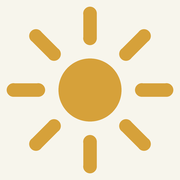
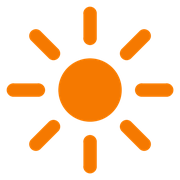
Herstel het oranje zonnetje voor browser- en app-iconen

diff --git a/index.html b/index.html
@@ -22,7 +22,7 @@
       "url": "https://positief-nieuws.nl/",
       "logo": {
         "@type": "ImageObject",
-        "url": "https://positief-nieuws.nl/sun-orange.svg",
+        "url": "https://positief-nieuws.nl/sun-orange.svg?v=6",
         "width": 512,
         "height": 512
       }
@@ -1837,7 +1837,7 @@ body.pn-home .site-footer .simple-analytics-badge{margin-top:8px!important}.site
     flex: none;
   }
 }
-</style><link href="/favicon.ico" rel="icon" sizes="16x16 32x32 48x48 64x64"/><link href="/favicon.png" rel="icon" sizes="96x96" type="image/png"/><link href="/sun-orange.svg" rel="icon" sizes="any" type="image/svg+xml"/><link href="/sun-apple-touch-icon.png" rel="apple-touch-icon" sizes="180x180"/><link href="/manifest.json?v=5" rel="manifest"/><meta content="Positief nieuws" name="application-name"/><!-- edition-analytics:start --><script data-edition="2026-11-19" data-page-type="homepage" src="/edition-analytics.js?v=2"></script><!-- edition-analytics:end --><link href="/site-theme.css?v=20261114-footer-compact" rel="stylesheet"/><link href="/newsletter-conversion.css?v=2" rel="stylesheet"/><!-- social-meta:start --><meta content="Positief nieuws en goed nieuws uit Nederland en de wereld" property="og:title"/><meta content="Op zoek naar goed nieuws? Ontdek twee keer per week positieve verhalen uit Nederland en de wereld over oplossingen, vooruitgang en wat wél goed gaat." property="og:description"/><meta content="https://positief-nieuws.nl/" property="og:url"/><meta content="website" property="og:type"/><meta content="Positief nieuws" property="og:site_name"/><meta content="nl_NL" property="og:locale"/><meta content="https://positief-nieuws.nl/images/social/positief-nieuws-v1.png" property="og:image"/><meta content="https://positief-nieuws.nl/images/social/positief-nieuws-v1.png" property="og:image:secure_url"/><meta content="Positief nieuws. Dit gebeurt ook. Nieuws uit Nederland en de wereld." property="og:image:alt"/><meta content="1200" property="og:image:width"/><meta content="630" property="og:image:height"/><meta content="summary_large_image" name="twitter:card"/><meta content="Positief nieuws en goed nieuws uit Nederland en de wereld" name="twitter:title"/><meta content="Op zoek naar goed nieuws? Ontdek twee keer per week positieve verhalen uit Nederland en de wereld over oplossingen, vooruitgang en wat wél goed gaat." name="twitter:description"/><meta content="https://positief-nieuws.nl/images/social/positief-nieuws-v1.png" name="twitter:image"/><meta content="Positief nieuws. Dit gebeurt ook. Nieuws uit Nederland en de wereld." name="twitter:image:alt"/><!-- social-meta:end --><!-- social-assets:start --><link href="/social-sharing.css?v=1" rel="stylesheet"/><script defer="" src="/social-sharing.js?v=1"></script><!-- social-assets:end --><style id="homepage-brand-heading">
+</style><link href="/favicon.ico?v=6" rel="icon" sizes="16x16 32x32 48x48 64x64"/><link href="/favicon.png?v=6" rel="icon" sizes="96x96" type="image/png"/><link href="/sun-orange.svg?v=6" rel="icon" sizes="any" type="image/svg+xml"/><link href="/sun-apple-touch-icon.png?v=6" rel="apple-touch-icon" sizes="180x180"/><link href="/manifest.json?v=6" rel="manifest"/><meta content="Positief nieuws" name="application-name"/><!-- edition-analytics:start --><script data-edition="2026-11-19" data-page-type="homepage" src="/edition-analytics.js?v=2"></script><!-- edition-analytics:end --><link href="/site-theme.css?v=20261114-footer-compact" rel="stylesheet"/><link href="/newsletter-conversion.css?v=2" rel="stylesheet"/><!-- social-meta:start --><meta content="Positief nieuws en goed nieuws uit Nederland en de wereld" property="og:title"/><meta content="Op zoek naar goed nieuws? Ontdek twee keer per week positieve verhalen uit Nederland en de wereld over oplossingen, vooruitgang en wat wél goed gaat." property="og:description"/><meta content="https://positief-nieuws.nl/" property="og:url"/><meta content="website" property="og:type"/><meta content="Positief nieuws" property="og:site_name"/><meta content="nl_NL" property="og:locale"/><meta content="https://positief-nieuws.nl/images/social/positief-nieuws-v1.png" property="og:image"/><meta content="https://positief-nieuws.nl/images/social/positief-nieuws-v1.png" property="og:image:secure_url"/><meta content="Positief nieuws. Dit gebeurt ook. Nieuws uit Nederland en de wereld." property="og:image:alt"/><meta content="1200" property="og:image:width"/><meta content="630" property="og:image:height"/><meta content="summary_large_image" name="twitter:card"/><meta content="Positief nieuws en goed nieuws uit Nederland en de wereld" name="twitter:title"/><meta content="Op zoek naar goed nieuws? Ontdek twee keer per week positieve verhalen uit Nederland en de wereld over oplossingen, vooruitgang en wat wél goed gaat." name="twitter:description"/><meta content="https://positief-nieuws.nl/images/social/positief-nieuws-v1.png" name="twitter:image"/><meta content="Positief nieuws. Dit gebeurt ook. Nieuws uit Nederland en de wereld." name="twitter:image:alt"/><!-- social-meta:end --><!-- social-assets:start --><link href="/social-sharing.css?v=1" rel="stylesheet"/><script defer="" src="/social-sharing.js?v=1"></script><!-- social-assets:end --><style id="homepage-brand-heading">
 body.pn-home .site-header,
 body.pn-home .topicstrip{border-bottom:0}
 /* Homepage: the existing wordmark is the primary heading. */
@@ -1863,7 +1863,7 @@ body.pn-home .topicstrip{border-bottom:0}
 <header class="site-header">
 <div class="header-shell header-row">
 <h1 class="brand-heading"><a aria-label="Positief nieuws homepage" class="brand" href="./">
-<img alt="" aria-hidden="true" class="brand-sun" height="32" src="/sun-orange.svg" width="32"/>
+<img alt="" aria-hidden="true" class="brand-sun" height="32" src="/sun-orange.svg?v=6" width="32"/>
 <span>Positief nieuws</span>
 </a></h1>
 <button aria-controls="mobile-navigation" aria-expanded="false" aria-label="Menu openen" class="mobile-menu-toggle" type="button">

diff --git a/nieuwsbrief/index.html b/nieuwsbrief/index.html
@@ -1,4 +1,4 @@
-<!DOCTYPE html><html lang="nl"><head><script src="/analytics-loader.js?v=1"></script><meta charset="UTF-8"><meta name="viewport" content="width=device-width,initial-scale=1"><title>Gratis nieuwsbrief | Positief nieuws in je inbox</title><meta name="description" content="Elke maandag en donderdag 12 positieve verhalen en 3 ontwikkelingen om bij te blijven. Gratis, overzichtelijk en in een paar minuten gelezen."><link rel="canonical" href="https://positief-nieuws.nl/nieuwsbrief/"><link rel="icon" href="/favicon.ico"><link rel="stylesheet" href="/site-theme.css?v=20261114-footer-compact"><link rel="stylesheet" href="/newsletter-conversion.css?v=2"><style>
+<!DOCTYPE html><html lang="nl"><head><script src="/analytics-loader.js?v=1"></script><meta charset="UTF-8"><meta name="viewport" content="width=device-width,initial-scale=1"><title>Gratis nieuwsbrief | Positief nieuws in je inbox</title><meta name="description" content="Elke maandag en donderdag 12 positieve verhalen en 3 ontwikkelingen om bij te blijven. Gratis, overzichtelijk en in een paar minuten gelezen."><link rel="canonical" href="https://positief-nieuws.nl/nieuwsbrief/"><link rel="icon" href="/favicon.ico?v=6"><link rel="stylesheet" href="/site-theme.css?v=20261114-footer-compact"><link rel="stylesheet" href="/newsletter-conversion.css?v=2"><style>
 :root{--paper:#f7f5ec;--ink:#151a17;--green:#1f5b45;--green-dark:#173f31;--accent:#d6a13a;--muted:#68716b;--line:rgba(23,63,49,.22);--line2:rgba(23,63,49,.12);--content:748px;--header:1080px}
 *{box-sizing:border-box}html{font-size:17px}body{margin:0;background:var(--paper);color:var(--ink);font-family:Arial,Helvetica,sans-serif;line-height:1.52;-webkit-font-smoothing:antialiased}a{color:inherit}
 .site-header{padding:26px 0 18px}.header-shell{width:min(calc(100% - 48px),var(--header));margin:0 auto}.header-row{display:flex;align-items:center;justify-content:space-between;gap:24px}
@@ -13,7 +13,7 @@
 </style><script src="/edition-analytics.js?v=2" data-page-type="newsletter" defer></script><!-- social-meta:start --><meta property="og:title" content="Gratis nieuwsbrief | Positief nieuws in je inbox"><meta property="og:description" content="Elke maandag en donderdag 12 positieve verhalen en 3 ontwikkelingen om bij te blijven. Gratis, overzichtelijk en in een paar minuten gelezen."><meta property="og:url" content="https://positief-nieuws.nl/nieuwsbrief/"><meta property="og:type" content="website"><meta property="og:site_name" content="Positief nieuws"><meta property="og:locale" content="nl_NL"><meta property="og:image" content="https://positief-nieuws.nl/images/social/positief-nieuws-v1.png"><meta property="og:image:secure_url" content="https://positief-nieuws.nl/images/social/positief-nieuws-v1.png"><meta property="og:image:alt" content="Positief nieuws. Dit gebeurt ook. Nieuws uit Nederland en de wereld."><meta property="og:image:width" content="1200"><meta property="og:image:height" content="630"><meta name="twitter:card" content="summary_large_image"><meta name="twitter:title" content="Gratis nieuwsbrief | Positief nieuws in je inbox"><meta name="twitter:description" content="Elke maandag en donderdag 12 positieve verhalen en 3 ontwikkelingen om bij te blijven. Gratis, overzichtelijk en in een paar minuten gelezen."><meta name="twitter:image" content="https://positief-nieuws.nl/images/social/positief-nieuws-v1.png"><meta name="twitter:image:alt" content="Positief nieuws. Dit gebeurt ook. Nieuws uit Nederland en de wereld."><!-- social-meta:end --><!-- social-assets:start --><link rel="stylesheet" href="/social-sharing.css?v=1"><script src="/social-sharing.js?v=1" defer></script><!-- social-assets:end --></head><body><a class="skip" href="#main">Ga naar inhoud</a><header class="site-header">
   <div class="header-shell header-row">
     <a class="brand" href="/" aria-label="Positief nieuws homepage">
-      <img class="brand-sun" src="/sun-orange.svg" width="32" height="32" alt="" aria-hidden="true">
+      <img class="brand-sun" src="/sun-orange.svg?v=6" width="32" height="32" alt="" aria-hidden="true">
       <span>Positief nieuws</span>
     </a>
 

diff --git a/edities/2026-11-19/index.html b/edities/2026-11-19/index.html
@@ -1,7 +1,7 @@
 <!DOCTYPE html><html lang="nl"><head>
 <meta charset="UTF-8"><meta name="viewport" content="width=device-width, initial-scale=1.0">
 <title>Positief nieuws · donderdag 19 november 2026</title><meta name="description" content="Positief nieuws van donderdag 19 november 2026: Jorn (18) en een omstander redden stel uit zinkende auto en Lily Yohannes leerde Nederlands op het voetbalple…"><link rel="canonical" href="https://positief-nieuws.nl/edities/2026-11-19/">
-<meta property="og:title" content="Positief nieuws · donderdag 19 november 2026"><meta property="og:description" content="Positief nieuws van donderdag 19 november 2026: Jorn (18) en een omstander redden stel uit zinkende auto en Lily Yohannes leerde Nederlands op het voetbalple…"><meta property="og:type" content="article"><meta property="og:url" content="https://positief-nieuws.nl/edities/2026-11-19/"><meta name="twitter:card" content="summary"><meta name="theme-color" content="#17382b"><link rel="manifest" href="/manifest.json?v=5"><link rel="apple-touch-icon" href="/sun-apple-touch-icon.png"><script type="application/ld+json">{"@context": "https://schema.org", "@type": "CollectionPage", "name": "Positief nieuws · donderdag 19 november 2026", "description": "Positief nieuws van donderdag 19 november 2026: Jorn (18) en een omstander redden stel uit zinkende auto en Lily Yohannes leerde Nederlands op het voetbalple…", "url": "https://positief-nieuws.nl/edities/2026-11-19/", "datePublished": "2026-11-19", "dateModified": "2026-11-19", "isPartOf": {"@type": "WebSite", "name": "Positief nieuws", "url": "https://positief-nieuws.nl/"}}</script><style>
+<meta property="og:title" content="Positief nieuws · donderdag 19 november 2026"><meta property="og:description" content="Positief nieuws van donderdag 19 november 2026: Jorn (18) en een omstander redden stel uit zinkende auto en Lily Yohannes leerde Nederlands op het voetbalple…"><meta property="og:type" content="article"><meta property="og:url" content="https://positief-nieuws.nl/edities/2026-11-19/"><meta name="twitter:card" content="summary"><meta name="theme-color" content="#17382b"><link rel="manifest" href="/manifest.json?v=6"><link rel="apple-touch-icon" href="/sun-apple-touch-icon.png?v=6"><script type="application/ld+json">{"@context": "https://schema.org", "@type": "CollectionPage", "name": "Positief nieuws · donderdag 19 november 2026", "description": "Positief nieuws van donderdag 19 november 2026: Jorn (18) en een omstander redden stel uit zinkende auto en Lily Yohannes leerde Nederlands op het voetbalple…", "url": "https://positief-nieuws.nl/edities/2026-11-19/", "datePublished": "2026-11-19", "dateModified": "2026-11-19", "isPartOf": {"@type": "WebSite", "name": "Positief nieuws", "url": "https://positief-nieuws.nl/"}}</script><style>
 :root{--paper:#f7f5ec;--ink:#151a17;--green:#1f5b45;--green-dark:#173f31;--accent:#d6a13a;--muted:#68716b;--line:rgba(23,63,49,.22);--line2:rgba(23,63,49,.12);--content:748px;--header:1080px}
 *{box-sizing:border-box}html{font-size:17px}body{margin:0;background:var(--paper);color:var(--ink);font-family:Arial,Helvetica,sans-serif;line-height:1.52;-webkit-font-smoothing:antialiased}a{color:inherit}
 .site-header{padding:26px 0 18px}.header-shell{width:min(calc(100% - 48px),var(--header));margin:0 auto}.header-row{display:flex;align-items:center;justify-content:space-between;gap:24px}
@@ -15,7 +15,7 @@
 <header class="site-header">
   <div class="header-shell header-row">
     <a class="brand" href="/" aria-label="Positief nieuws homepage">
-      <img class="brand-sun" src="/sun-orange.svg" width="32" height="32" alt="" aria-hidden="true">
+      <img class="brand-sun" src="/sun-orange.svg?v=6" width="32" height="32" alt="" aria-hidden="true">
       <span>Positief nieuws</span>
     </a>
 

diff --git a/service-worker.js b/service-worker.js
@@ -1,13 +1,18 @@
-const CACHE_NAME = "positief-nieuws-v15";
+const CACHE_NAME = "positief-nieuws-v16";
 
 const CORE_ASSETS = [
   "/",
   "/index.html",
-  "/manifest.json?v=5",
+  "/manifest.json?v=6",
   "/edition-analytics.js?v=1",
-  "/sun-icon-192.png",
-  "/sun-icon-512.png",
-  "/sun-apple-touch-icon.png",
+  "/sun-icon-192.png?v=6",
+  "/sun-icon-512.png?v=6",
+  "/sun-apple-touch-icon.png?v=6",
+  "/favicon.ico?v=6",
+  "/favicon.png?v=6",
+  "/sun-orange.svg?v=6",
+  "/sun-maskable-192.png",
+  "/sun-maskable-512.png",
   "/edities/index.json"
 ];
 

diff --git a/artikelen/2026-11-19/co2/index.html b/artikelen/2026-11-19/co2/index.html
@@ -107,7 +107,7 @@
   <header class="site-header">
   <div class="header-shell header-row">
     <a class="brand" href="/" aria-label="Positief nieuws homepage">
-      <img class="brand-sun" src="/sun-orange.svg" width="32" height="32" alt="" aria-hidden="true">
+      <img class="brand-sun" src="/sun-orange.svg?v=6" width="32" height="32" alt="" aria-hidden="true">
       <span>Positief nieuws</span>
     </a>
 

diff --git a/artikelen/2026-11-19/cooperaties/index.html b/artikelen/2026-11-19/cooperaties/index.html
@@ -107,7 +107,7 @@
   <header class="site-header">
   <div class="header-shell header-row">
     <a class="brand" href="/" aria-label="Positief nieuws homepage">
-      <img class="brand-sun" src="/sun-orange.svg" width="32" height="32" alt="" aria-hidden="true">
+      <img class="brand-sun" src="/sun-orange.svg?v=6" width="32" height="32" alt="" aria-hidden="true">
       <span>Positief nieuws</span>
     </a>
 

diff --git a/artikelen/2026-11-19/godel/index.html b/artikelen/2026-11-19/godel/index.html
@@ -107,7 +107,7 @@
   <header class="site-header">
   <div class="header-shell header-row">
     <a class="brand" href="/" aria-label="Positief nieuws homepage">
-      <img class="brand-sun" src="/sun-orange.svg" width="32" height="32" alt="" aria-hidden="true">
+      <img class="brand-sun" src="/sun-orange.svg?v=6" width="32" height="32" alt="" aria-hidden="true">
       <span>Positief nieuws</span>
     </a>
 

diff --git a/artikelen/2026-11-19/harlingen/index.html b/artikelen/2026-11-19/harlingen/index.html
@@ -107,7 +107,7 @@
   <header class="site-header">
   <div class="header-shell header-row">
     <a class="brand" href="/" aria-label="Positief nieuws homepage">
-      <img class="brand-sun" src="/sun-orange.svg" width="32" height="32" alt="" aria-hidden="true">
+      <img class="brand-sun" src="/sun-orange.svg?v=6" width="32" height="32" alt="" aria-hidden="true">
       <span>Positief nieuws</span>
     </a>
 

diff --git a/artikelen/2026-11-19/holendrecht/index.html b/artikelen/2026-11-19/holendrecht/index.html
@@ -107,7 +107,7 @@
   <header class="site-header">
   <div class="header-shell header-row">
     <a class="brand" href="/" aria-label="Positief nieuws homepage">
-      <img class="brand-sun" src="/sun-orange.svg" width="32" height="32" alt="" aria-hidden="true">
+      <img class="brand-sun" src="/sun-orange.svg?v=6" width="32" height="32" alt="" aria-hidden="true">
       <span>Positief nieuws</span>
     </a>
 

diff --git a/artikelen/2026-11-19/mahjong/index.html b/artikelen/2026-11-19/mahjong/index.html
@@ -107,7 +107,7 @@
   <header class="site-header">
   <div class="header-shell header-row">
     <a class="brand" href="/" aria-label="Positief nieuws homepage">
-      <img class="brand-sun" src="/sun-orange.svg" width="32" height="32" alt="" aria-hidden="true">
+      <img class="brand-sun" src="/sun-orange.svg?v=6" width="32" height="32" alt="" aria-hidden="true">
       <span>Positief nieuws</span>
     </a>
 

diff --git a/artikelen/2026-11-19/mexico/index.html b/artikelen/2026-11-19/mexico/index.html
@@ -107,7 +107,7 @@
   <header class="site-header">
   <div class="header-shell header-row">
     <a class="brand" href="/" aria-label="Positief nieuws homepage">
-      <img class="brand-sun" src="/sun-orange.svg" width="32" height="32" alt="" aria-hidden="true">
+      <img class="brand-sun" src="/sun-orange.svg?v=6" width="32" height="32" alt="" aria-hidden="true">
       <span>Positief nieuws</span>
     </a>
 

diff --git a/artikelen/2026-11-19/schagen/index.html b/artikelen/2026-11-19/schagen/index.html
@@ -107,7 +107,7 @@
   <header class="site-header">
   <div class="header-shell header-row">
     <a class="brand" href="/" aria-label="Positief nieuws homepage">
-      <img class="brand-sun" src="/sun-orange.svg" width="32" height="32" alt="" aria-hidden="true">
+      <img class="brand-sun" src="/sun-orange.svg?v=6" width="32" height="32" alt="" aria-hidden="true">
       <span>Positief nieuws</span>
     </a>
 
